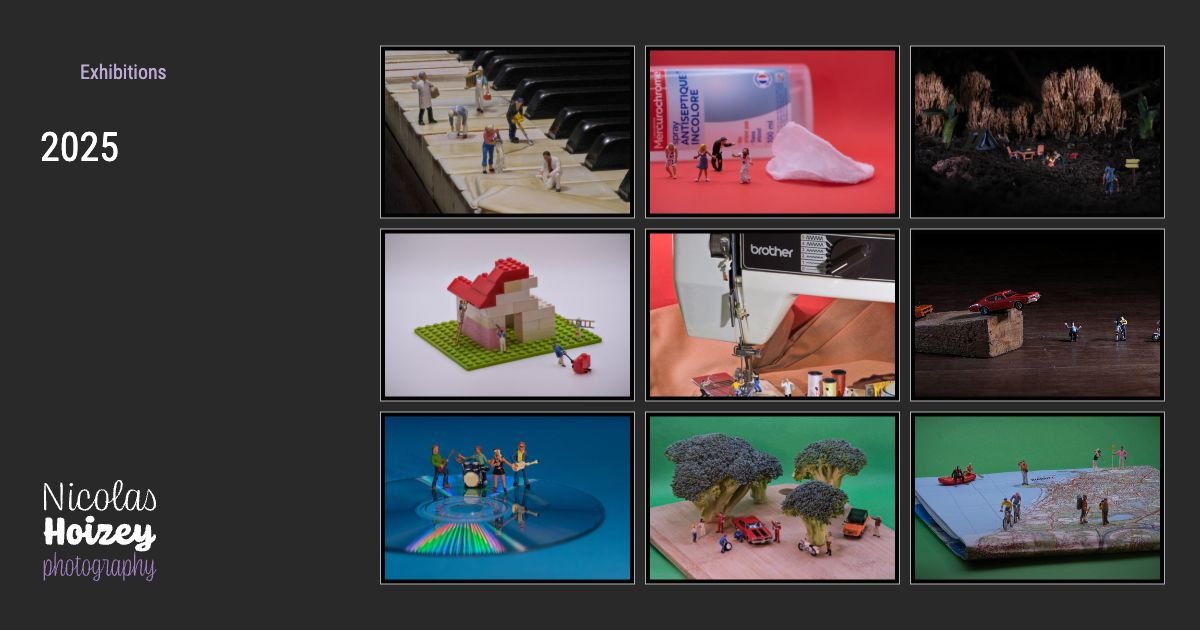
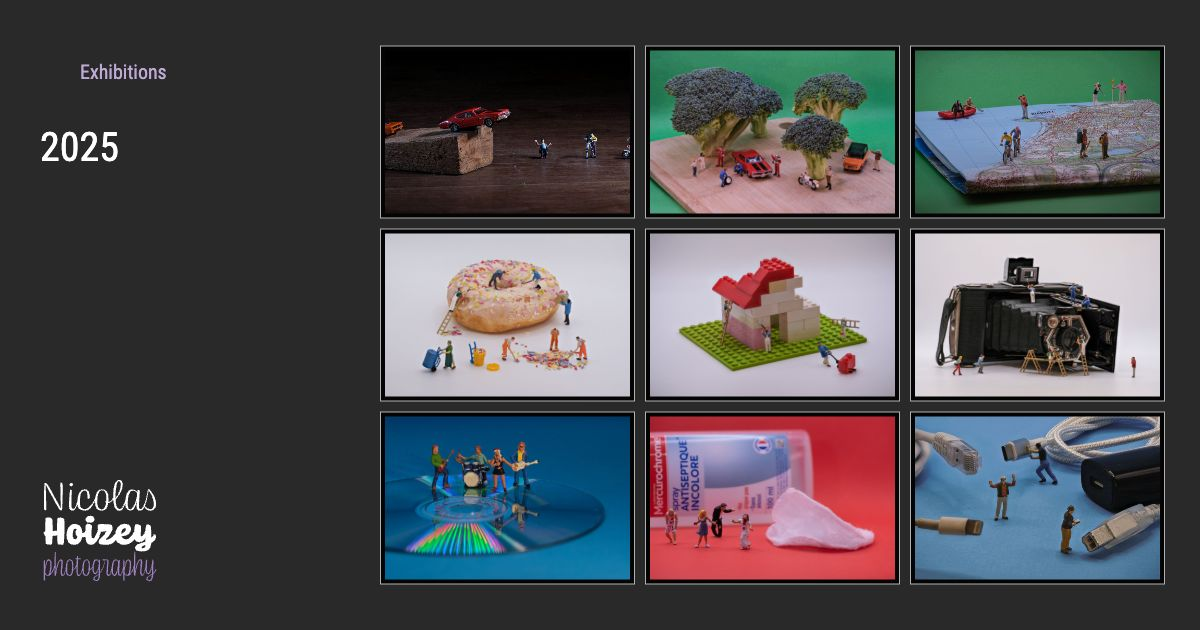
Add old exhibition

diff --git a/src/pages/galleries/exhibitions/2022/02-regards-multiples/index.md b/src/pages/galleries/exhibitions/2022/02-regards-multiples/index.md
@@ -1,11 +1,9 @@
 ---
-date: 2022-02-16 00:26:49 +02:00
-title: 'Exhibition in Draveil: Regards multiples'
-lang: en
-tags: [exhibition, miniature]
+title: "February 2022: Regards multiples"
+location: Château de Villiers
 ---
 
-![The exhibition poster](exhibition-poster.jpg){.logo}
+![The exhibition poster](poster.jpg){.logo}
 From February 5th to 13th, a dozen fellow photographers from the [Photo Club of Draveil](https://www.photo-club-draveil.fr/) and myself had the opportunity to participate in an exhibition. The title was "Regards multiples" ("Multiple perspectives" in English), as each photographer could chose its own preferred theme. The only requirement was that each of us had to exhibit a coherent photographic series, rather than a batch of independent images.
 
 Attracted by model making during my childhood, I came back to it through the photographic prism, discovering by chance miniature photography, for example with Tatsuya Tanaka's [Miniature Calendar](https://miniature-calendar.com/).
@@ -14,4 +12,4 @@ Attracted by model making during my childhood, I came back to it through the pho
 
 With this series, I wanted to show how our view of everyday objects can completely change when they are staged with small model railroad figures in HO scale (1/87).
 
-You can see the 5 new photos I created and chose to exhibit [in the dedicated gallery](/galleries/exhibitions/2022/02-regards-multiples/).
+Here are the five photos I chose to exhibit:

diff --git a/src/pages/galleries/exhibitions/2022/02-regards-multiples/biohazard.md b/src/pages/galleries/exhibitions/2022/02-regards-multiples/biohazard.md
@@ -1,0 +1,4 @@
+---
+date: 2022-02-11 18:44:45 +01:00
+featured: true
+---

diff --git a/src/pages/galleries/exhibitions/2022/02-regards-multiples/magmatic-eruption.md b/src/pages/galleries/exhibitions/2022/02-regards-multiples/magmatic-eruption.md
@@ -1,0 +1,4 @@
+---
+date: 2022-02-14 12:26:22 +01:00
+featured: true
+---

diff --git a/src/pages/galleries/exhibitions/2022/02-regards-multiples/sweet-colors.md b/src/pages/galleries/exhibitions/2022/02-regards-multiples/sweet-colors.md
@@ -1,0 +1,4 @@
+---
+date: 2022-02-15 00:38:58 +01:00
+featured: true
+---

diff --git a/src/pages/galleries/exhibitions/2025/01-carte-blanche/cds-are-cool-again.md b/src/pages/galleries/exhibitions/2025/01-carte-blanche/cds-are-cool-again.md
@@ -1,3 +1,4 @@
 ---
 date: 2025-01-19 00:17:03 +01:00
+featured: true
 ---

diff --git a/src/pages/galleries/exhibitions/2025/01-carte-blanche/donut-looting.md b/src/pages/galleries/exhibitions/2025/01-carte-blanche/donut-looting.md
@@ -1,3 +1,4 @@
 ---
 date: 2025-01-19 00:17:03 +01:00
+featured: true
 ---

diff --git a/src/pages/galleries/exhibitions/2025/01-carte-blanche/hurrah-for-the-winners.md b/src/pages/galleries/exhibitions/2025/01-carte-blanche/hurrah-for-the-winners.md
@@ -1,3 +1,4 @@
 ---
 date: 2025-01-19 00:17:03 +01:00
+featured: true
 ---

diff --git a/src/pages/galleries/exhibitions/2025/01-carte-blanche/old-camera-maintenance.md b/src/pages/galleries/exhibitions/2025/01-carte-blanche/old-camera-maintenance.md
@@ -1,3 +1,4 @@
 ---
 date: 2025-01-19 00:17:03 +01:00
+featured: true
 ---

diff --git a/src/pages/galleries/exhibitions/2025/01-carte-blanche/old-school-builders.md b/src/pages/galleries/exhibitions/2025/01-carte-blanche/old-school-builders.md
@@ -1,3 +1,4 @@
 ---
 date: 2025-01-19 00:17:03 +01:00
+featured: true
 ---

diff --git a/src/pages/galleries/exhibitions/2025/01-carte-blanche/summer-activities.md b/src/pages/galleries/exhibitions/2025/01-carte-blanche/summer-activities.md
@@ -1,3 +1,4 @@
 ---
 date: 2025-01-19 00:17:03 +01:00
+featured: true
 ---

diff --git a/src/pages/galleries/exhibitions/2025/01-carte-blanche/the-great-cinemascope-car-chase.md b/src/pages/galleries/exhibitions/2025/01-carte-blanche/the-great-cinemascope-car-chase.md
@@ -1,3 +1,4 @@
 ---
 date: 2025-01-19 00:17:03 +01:00
+featured: true
 ---

diff --git a/src/pages/galleries/exhibitions/2022/02-regards-multiples/lumberjacks.md b/src/pages/galleries/exhibitions/2022/02-regards-multiples/lumberjacks.md
@@ -1,0 +1,3 @@
+---
+date: 2022-02-12 14:56:35 +01:00
+---
